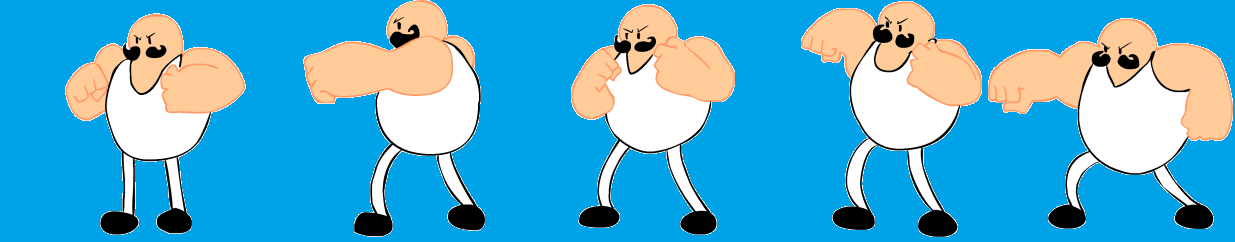
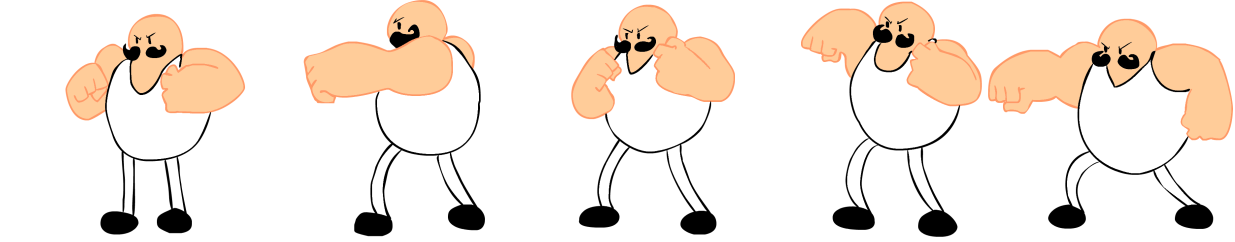
fyrsti item upgrades + bug fixes

diff --git a/public/game/gameEngine.js b/public/game/gameEngine.js
@@ -12,26 +12,26 @@ function gameEngine(image, audio, user, userData, isFriend){
 	this.calculator = new Calculator();
     this.coconutImage = image['coconut'];
     this.userdata.setCurrency(this.calculator.calculateOfflineCurrency(this.userdata.timestamp,this.userdata.getCurrency(), this.userdata.getCurrFactor()));
-    this.score = this.userdata.score + this.calculator.calculateOfflineCurrency(this.userdata.timestamp,this.userdata.getCurrency(), this.userdata.getCurrFactor());
+    this.score = this.userdata.score + this.calculator.calculateOfflineScore(this.userdata.timestamp,this.userdata.getCurrency(), this.userdata.getCurrFactor());
+    
     this.displayScreen = this.lvl1;
     this.audio = audio;
     this.isFriend = isFriend;
 
-
-    //this.userdata.currency = 1000000000;
+    this.userdata.currency = 10000000;
 
     if (isFriend) {
 
         ////////////////////////////////////////////////////////
         //              THE UPGRADES DISPLAY 1
         ////////////////////////////////////////////////////////
-        var names = ['backButton', 'item1upgrade1', 'item2upgrade1', 'item3upgrade1', 'item1upgrade2', 'item2upgrade2', 'item3upgrade2', 'item1upgrade3', 'item2upgrade3', 'item3upgrade3'];
+        var names = ['backButton', 'item1upgrade1', 'item2upgrade1', 'item3upgrade1', 'item1upgrade2', 'item2upgrade2', 'item3upgrade2', 'item1upgrade3', 'item2upgrade3', 'item3upgrade3' ,'item1upgrade1_bought', 'item2upgrade1_bought', 'item3upgrade1_bought', 'item1upgrade2_bought', 'item2upgrade2_bought', 'item3upgrade2_bought', 'item1upgrade3_bought', 'item2upgrade3_bought', 'item3upgrade3_bought'];
         this.makeUpgradeDisplay(names, image, 0);
 
         ////////////////////////////////////////////////////////
         //              THE UPGRADES DISPLAY 2
         ////////////////////////////////////////////////////////
-        names = ['backButton', 'item4upgrade1', 'item5upgrade1', 'item6upgrade1', 'item4upgrade2', 'item5upgrade2', 'item6upgrade2', 'item4upgrade3', 'item5upgrade3', 'item6upgrade3'];
+        names = ['backButton', 'item4upgrade1', 'item5upgrade1', 'item6upgrade1', 'item4upgrade2', 'item5upgrade2', 'item6upgrade2', 'item4upgrade3', 'item5upgrade3', 'item6upgrade3', 'item4upgrade1_bought', 'item5upgrade1_bought', 'item6upgrade1_bought', 'item4upgrade2_bought', 'item5upgrade2_bought', 'item6upgrade2_bought', 'item4upgrade3_bought', 'item5upgrade3_bought', 'item6upgrade3_bought'];
         this.makeUpgradeDisplay(names, image, 1);
 
         ////////////////////////////////////////////////////////
@@ -72,10 +72,11 @@ function gameEngine(image, audio, user, userData, isFriend){
     var upgradesForScreens = [];
 
 
-    upgradesForScreens.push(this.makeItemImages(['item1upgrade1','item1upgrade2','item1upgrade3'], 500, 500, image));
+    upgradesForScreens.push(this.makeItemImages(['item1upgrade1','item1upgrade2','item1upgrade3'], 500000/*ætla að nota animations í staðinn fyrir þetta fyrsta svo ég læt það renderast út í rassgati*/, 500000, image));
     upgradesForScreens.push(this.makeItemImages(['item2upgrade1','item2upgrade2','item2upgrade3'], 300, 542, image));
     upgradesForScreens.push(this.makeItemImages(['item3upgrade1','item3upgrade2','item3upgrade3'], 178, 498, image));
 
+    var Sprites = [];
     var numberOfFrames = 5;
     var frameheight = image['kall'].height;
     var framewidth = image['kall'].width / numberOfFrames;
@@ -84,12 +85,15 @@ function gameEngine(image, audio, user, userData, isFriend){
     var animationTime = 0.7;
     var scale = 0.5;
 
-    var animation = new Sprite(image['kall'],frameheight,framewidth,topX,topY,animationTime, numberOfFrames, scale);
+    Sprites.push(animation = new Sprite(image['kall'],frameheight,framewidth,topX,topY,animationTime, numberOfFrames, scale));
+    Sprites.push(animation = new Sprite(image['kall1'],frameheight,framewidth,topX,topY,animationTime, numberOfFrames, scale));
+    Sprites.push(animation = new Sprite(image['kall2'],frameheight,framewidth,topX,topY,animationTime, numberOfFrames, scale));
+    Sprites.push(animation = new Sprite(image['kall3'],frameheight,framewidth,topX,topY,animationTime, numberOfFrames, scale));
 
-    this.displays.push(new Display(backgroundImages, buttons,undefined,upgradesForScreens,animation));
+    this.displays.push(new Display(backgroundImages, buttons,undefined,upgradesForScreens, Sprites));
 
     /////////////////////////////////////////////////
-    //                  LEVEL TWO
+    //                  Sp TWO
     ////////////////////////////////////////////////
 
     //takki1 - tré
@@ -276,17 +280,18 @@ gameEngine.prototype.makeUpgradeDisplay = function(names,image,func){
         ///////////////////////////////////////////
 
         var bought = [[0,0,0],[0,0,0],[0,0,0]];
-
+        nameCounter = 10;
         for(var i = 0; i < 3; i++){
                 for(var j = 0; j < 3; j++){ 
-                    pos = {     width: image['bought'].width,
-                            height: image['bought'].height,
+                    console.log(names[nameCounter])
+                    pos = {     width: image[names[nameCounter]].width,
+                            height: image[names[nameCounter]].height,
                             topX: (j*70) + 10,
                             topY: (i*70) + 10
                      };
 
-                    bought[i][j] = new Button(pos, image['bought'], undefined);
-                
+                    bought[i][j] = new Button(pos, image[names[nameCounter]], undefined);
+                    nameCounter++;
                 }
             }
 
@@ -401,6 +406,14 @@ gameEngine.prototype.buyUpgrade = function(index){
                 }
                 if(index[1]< 1 && index[0] === 0 ){
                     this.userdata.upgrades1[index[0]][index[1]+2] = 0;
+                }
+
+                if(index[0] === 0 && index[1] === 0){
+                    this.displays[this.lvl1].changeSprite();
+                }else if(index[0] === 1 && index[1] === 0){
+                    this.displays[this.lvl1].changeSprite();
+                }else if(index[0] === 2 && index[1] === 0){
+                    this.displays[this.lvl1].changeSprite();
                 }
 
                 this.userdata.currency -= this.calculator.prices1[index[0]][index[1]];

diff --git a/public/game/Initialize.js b/public/game/Initialize.js
@@ -73,33 +73,57 @@ function imagePreload(callback){
       downLvl       : "game/images/uplvl.png",
       upLvl         : "game/images/downlvl.png",
 
-      item1upgrade1 : "game/images/item1upgrade1.png",
-      item2upgrade1 : "game/images/item2upgrade1.png",
-      item3upgrade1 : "game/images/item3upgrade1.png",
 
-      item1upgrade2 : "game/images/item1upgrade2.png",
-      item2upgrade2 : "game/images/item2upgrade2.png",
-      item3upgrade2 : "game/images/item3upgrade2.png",
+      item1upgrade1         : "game/images/item1upgrade1.png",
+      item1upgrade1_bought  : "game/images/item1upgrade1_bought.png",
+      item1upgrade2         : "game/images/item1upgrade2.png",
+      item1upgrade2_bought  : "game/images/item1upgrade2_bought.png",
+      item1upgrade3         : "game/images/item1upgrade3.png",
+      item1upgrade3_bought  : "game/images/item1upgrade3_bought.png",
 
-      item1upgrade3 : "game/images/item1upgrade3.png",
-      item2upgrade3 : "game/images/item2upgrade3.png",
-      item3upgrade3 : "game/images/item3upgrade3.png",
+      item2upgrade1         : "game/images/item2upgrade1.png",
+      item2upgrade1_bought  : "game/images/item2upgrade1_bought.png",
+      item2upgrade2         : "game/images/item2upgrade2.png",
+      item2upgrade2_bought  : "game/images/item2upgrade2_bought.png",
+      item2upgrade3         : "game/images/item2upgrade3.png",
+      item2upgrade3_bought  : "game/images/item2upgrade3_bought.png",
 
-      item4upgrade1 : "game/images/item4upgrade1.png",
-      item5upgrade1 : "game/images/item5upgrade1.png",
-      item6upgrade1 : "game/images/item6upgrade1.png",
+      item3upgrade1         : "game/images/item3upgrade1.png",
+      item3upgrade1_bought  : "game/images/item3upgrade1_bought.png",
+      item3upgrade2         : "game/images/item3upgrade2.png",
+      item3upgrade2_bought  : "game/images/item3upgrade2_bought.png",
+      item3upgrade3         : "game/images/item3upgrade3.png",
+      item3upgrade3_bought  : "game/images/item3upgrade3_bought.png",
 
-      item4upgrade2 : "game/images/item4upgrade2.png",
-      item5upgrade2 : "game/images/item5upgrade2.png",
-      item6upgrade2 : "game/images/item6upgrade2.png",
+      item4upgrade1         : "game/images/item4upgrade1.png",
+      item4upgrade1_bought  : "game/images/item4upgrade1_bought.png",
+      item4upgrade2         : "game/images/item4upgrade2.png",
+      item4upgrade2_bought  : "game/images/item4upgrade2_bought.png",
+      item4upgrade3         : "game/images/item4upgrade3.png",
+      item4upgrade3_bought  : "game/images/item4upgrade3_bought.png",
 
-      item4upgrade3 : "game/images/item4upgrade3.png",
-      item5upgrade3 : "game/images/item5upgrade3.png",
-      item6upgrade3 : "game/images/item6upgrade3.png",
+      item5upgrade1         : "game/images/item5upgrade1.png",
+      item5upgrade1_bought  : "game/images/item5upgrade1_bought.png",
+      item5upgrade2         : "game/images/item5upgrade2.png",
+      item5upgrade2_bought  : "game/images/item5upgrade2_bought.png",
+      item5upgrade3         : "game/images/item5upgrade3.png",
+      item5upgrade3_bought  : "game/images/item5upgrade3_bought.png",
+
+      item6upgrade1         : "game/images/item6upgrade1.png",
+      item6upgrade1_bought  : "game/images/item6upgrade1_bought.png",
+      item6upgrade2         : "game/images/item6upgrade2.png",
+      item6upgrade2_bought  : "game/images/item6upgrade2_bought.png",
+      item6upgrade3         : "game/images/item6upgrade3.png",
+      item6upgrade3_bought  : "game/images/item6upgrade3_bought.png",
+
+
+
 
       unavalible    : "game/images/unavalible.png",
-      bought        : "game/images/bought.png",
-      kall          : "game/images/kall_animation-2.png"
+      kall          : "game/images/kall_animation.png",
+      kall1         : "game/images/kall_animation-upgrade-1.png",
+      kall2         : "game/images/kall_animation-upgrade-2.png",
+      kall3         : "game/images/kall_animation-upgrade-3.png"
       };
 
   imagesPreload(requiredImages, g_images, callback);
@@ -134,11 +158,8 @@ _updateClocks = function (frameTime) {
 _iterCore = function (dt) {
 
     leikur.update(dt);
-    console.log('eftir update');
     leikur.render();
-    console.log('eftir render');
     leikur.playTheme();
-    console.log('eftir theme');
     Loop();
 };
 

diff --git a/public/game/Display.js b/public/game/Display.js
@@ -5,10 +5,16 @@ function Display(image,buttons,upgrades, itemsForScreen, sprite){
 	this.Buttons = buttons;
 	this.upgrades = upgrades;
 	this.itemsForScreen = itemsForScreen;
-	this.sprite = sprite;
+	
+	if(sprite){
+
+		this.sprite = sprite[0];
+		this.sprites = sprite;
+		this.spriteCounter = 0;
+	}
 	this.animationFrame = 0;
 	this.animationCurrentTime = 0;
-	console.log('inn í disp constructor');
+	console.log('inn í disp constructor', this.sprite);
 
 }
 
@@ -20,8 +26,19 @@ Display.prototype.showArrow = false;
 Display.prototype.itemsForScreen = undefined;
 
 Display.prototype.sprite = undefined;
+Display.prototype.sprites = undefined;
 Display.prototype.animationFrame = undefined;
 Display.prototype.animationCurrentTime = undefined;
+Display.prototype.spriteCounter = undefined;
+
+Display.prototype.changeSprite = function(){
+	this.spriteCounter = this.spriteCounter + 1
+    this.sprite = this.sprites[this.spriteCounter];
+}
+
+Display.prototype.whatSprite = function(){
+	console.log(this.sprite, this.spriteCounter);
+}
 
 Display.prototype.render = function(currency, score){
 	//g_ctx.aglobalAlpha = 0.0;
@@ -85,7 +102,6 @@ Display.prototype.createCoconut = function(coconut){
 }
 
 Display.prototype.update = function(dt){
-	console.log(this.coconuts);
 	if(this.coconuts){
 		for(var i = 0; i<this.coconuts.length; i++){
 			var kill = this.coconuts[i].update(dt);

diff --git a/public/game/Calculator.js b/public/game/Calculator.js
@@ -27,6 +27,21 @@ Calculator.prototype.calculateCurrency = function(time, currency, currFactor){
 
 };
 
+Calculator.prototype.calculateCurrencyOffline = function(time, currency, currFactor){
+	var tala = (time/1000)*currFactor;
+	var intTala = parseInt(tala, 10)
+	var difference = tala - intTala;
+	this.difference += difference;
+	if(this.difference >= 1){
+		this.difference -= 1;
+		intTala += 1;
+	}	
+
+	return intTala;
+
+
+};
+
 Calculator.prototype.calculateTreeFactor = function(upgrades,upgrades2){
 
 	var factor = 0;
@@ -51,6 +66,15 @@ Calculator.prototype.calculateTreeFactor = function(upgrades,upgrades2){
 Calculator.prototype.calculateOfflineCurrency = function(date, currency, factor){
 	var timeElapsedInSecs = (Date.now() - date);
 	var curr = this.calculateCurrency(timeElapsedInSecs,currency, factor);
+	console.log(timeElapsedInSecs,curr)
+	return curr;
+
+
+};
+
+Calculator.prototype.calculateOfflineScore = function(date, currency, factor){
+	var timeElapsedInSecs = (Date.now() - date);
+	var curr = this.calculateCurrencyOffline(timeElapsedInSecs,currency, factor);
 	console.log(timeElapsedInSecs,curr)
 	return curr;
 

diff --git a/lib/DBConnector.js b/lib/DBConnector.js
@@ -22,10 +22,10 @@ var defaultSettings = require('../lib/defaultSettings');
 //var DATABASE = "postgres://postgres:MaxvTQ@localhost/vefforritunLokaverkefni";
 
 //máni local Database connection string
-var DATABASE = "postgres://thorkellmani:1234@localhost/lokaverkefni";
+//var DATABASE = "postgres://thorkellmani:1234@localhost/lokaverkefni";
 
 //josua local connection
-//var DATABASE = "postgres://postgres:123@localhost/verkefni6";
+var DATABASE = "postgres://postgres:123@localhost/verkefni6";
 
 
 

diff --git a/public/game/Sprite.js b/public/game/Sprite.js
@@ -26,6 +26,8 @@ Sprite.prototype.animationFrames = undefined;
 Sprite.prototype.scale = undefined;
 
 
+
+
 Sprite.prototype.draw = function(frame){
     if(this.shouldAnimate){
 
